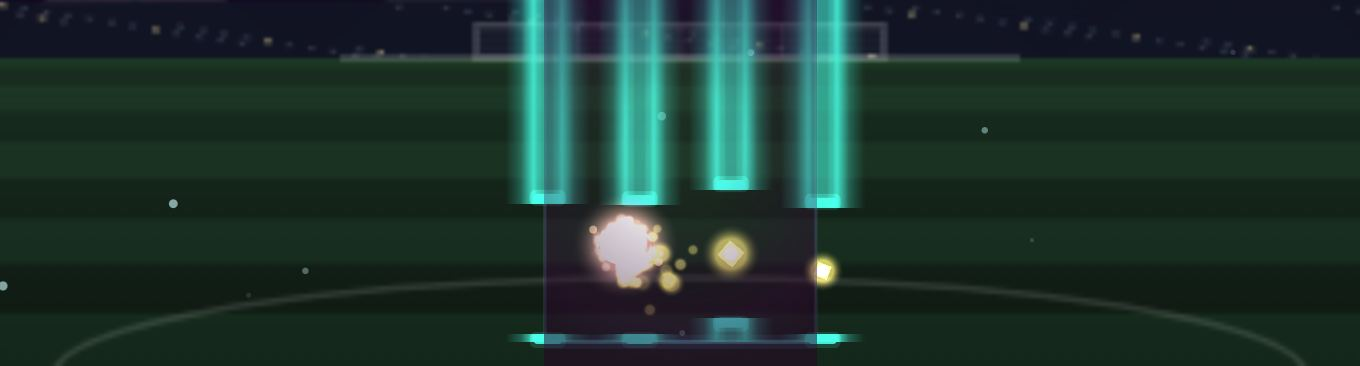
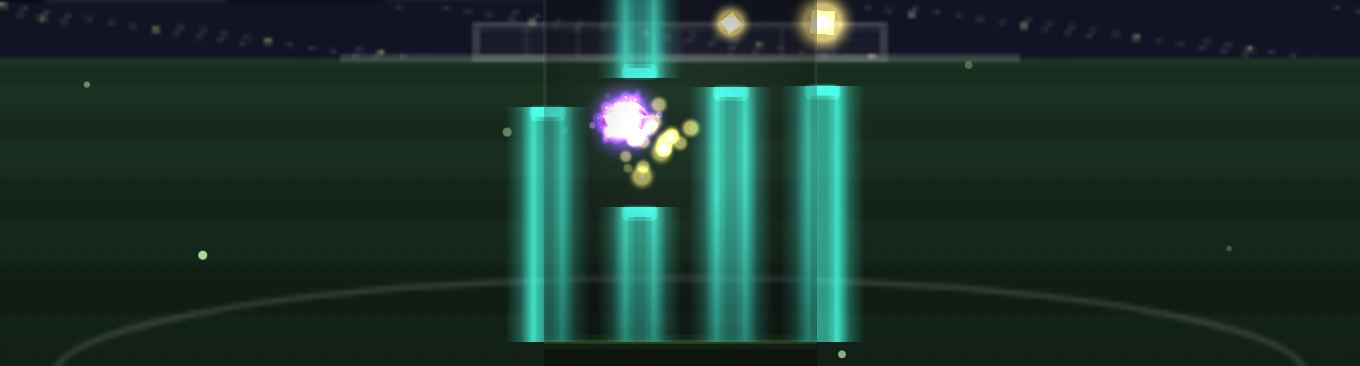
The striker skin is a ball, and it is legible at the size it is actually seen
STILL NOT PUSHED.

It was a red orb wearing a shirt number and a linesman's flag -- a character,
when what was asked for was a football. It is one now: a sphere with the panels
cut out of deep space, neon seams, stars burning inside it.

The first version drew all six pentagons properly, and at the size the game
actually uses -- a 19px orb -- it read as cracked glass. The icon lesson again:
a decoration is not a small picture. What makes a football legible at that size
is ONE pentagon in the middle and the seams running out of its corners, so that
is all it draws now, with the seam weight raised to r*0.115 and the star count
cut from fourteen to four. Verified by rendering the orb exactly as the game
draws it, at r=19, and magnifying with smoothing off -- not by admiring a
420px version of it.

Renamed to Void Ball in four languages, recoloured to indigo, and the world card
recaptured since it is shot with this skin equipped.

252 tests.

Changed region(s): [[0.3706, 0.0, 0.6485, 0.9617], [0.1235, 0.6913, 0.1544, 0.7213], [0.1235, 0.541, 0.1544, 0.571]]

diff --git a/js/game.js b/js/game.js
@@ -1440,27 +1440,78 @@
     // these is deliberately a single exaggerated trait on a plain orb. They are
     // archetypes, and archetypes belong to nobody.
 
-    // NUMBER 9: the eternally offside striker, with the linesman's flag that
-    // followed him home still stuck in his hair.
+    // A football, but the panels are cut out of deep space.
+    //
+    // The first version drew all six pentagons properly and at the size the game
+    // actually uses -- a 19px orb -- it read as cracked glass, not a ball. This
+    // is the icon lesson again: a decoration is not a small picture. What makes
+    // a football legible at that size is ONE pentagon in the middle and the
+    // seams running out of its corners, so that is all this draws.
     striker(ctx, r, hue, game) {
       const t = game ? game.elapsed : 0;
-      // the shirt number, big and dumb
-      ctx.fillStyle = 'rgba(255,255,255,0.92)';
-      ctx.font = 'bold ' + (r * 1.05).toFixed(1) + 'px system-ui, sans-serif';
-      ctx.textAlign = 'center'; ctx.textBaseline = 'middle';
-      ctx.fillText('9', 0, r * 0.06);
-      // the flag: a stick and a pennant that flutters
-      const fx = r * 0.62, fy = -r * 0.66;
-      ctx.strokeStyle = 'hsl(30 20% 88%)';
-      ctx.lineWidth = Math.max(1, r * 0.09);
-      ctx.beginPath(); ctx.moveTo(fx, fy); ctx.lineTo(fx + r * 0.10, fy - r * 0.85); ctx.stroke();
-      const wag = Math.sin(t * 6) * 0.14;
-      ctx.fillStyle = 'hsl(52 95% 58%)';
+      ctx.save();
+      ctx.beginPath(); ctx.arc(0, 0, r * 0.99, 0, TAU); ctx.clip();
+
+      // the sphere is a dark thing with light inside it, not a lit ball
+      const void_ = ctx.createRadialGradient(-r * 0.3, -r * 0.3, r * 0.1, 0, 0, r);
+      void_.addColorStop(0, 'hsl(266 55% 24%)');
+      void_.addColorStop(1, 'hsl(258 62% 9%)');
+      ctx.fillStyle = void_;
+      ctx.fillRect(-r, -r, r * 2, r * 2);
+
+      // a few big stars. Four, not fourteen: at 19px more than a handful is
+      // texture noise, and texture noise is what killed the first attempt.
+      for (let i = 0; i < 4; i++) {
+        const a = 0.7 + i * 1.9, d = r * (0.34 + (i % 3) * 0.22);
+        const tw = 0.5 + 0.5 * Math.sin(t * 2.0 + i * 2.1);
+        ctx.fillStyle = `hsla(${i % 2 ? 190 : 305} 95% 90% / ${0.45 + tw * 0.5})`;
+        ctx.beginPath();
+        ctx.arc(Math.cos(a) * d, Math.sin(a) * d, r * (i === 0 ? 0.10 : 0.065), 0, TAU);
+        ctx.fill();
+      }
+
+      // THE PENTAGON, and the seams leaving its corners. This is the whole read.
+      const R5 = r * 0.42, seam = Math.max(1.6, r * 0.115);
+      const pts = [];
+      for (let i = 0; i < 5; i++) {
+        const a = i * TAU / 5 - Math.PI / 2;
+        pts.push([Math.cos(a) * R5, Math.sin(a) * R5]);
+      }
       ctx.beginPath();
-      ctx.moveTo(fx + r * 0.10, fy - r * 0.85);
-      ctx.lineTo(fx + r * 0.86, fy - r * 0.70 + wag * r);
-      ctx.lineTo(fx + r * 0.12, fy - r * 0.44);
-      ctx.closePath(); ctx.fill();
+      ctx.moveTo(pts[0][0], pts[0][1]);
+      for (let i = 1; i < 5; i++) ctx.lineTo(pts[i][0], pts[i][1]);
+      ctx.closePath();
+      ctx.fillStyle = 'hsla(258 62% 7% / 0.92)';
+      ctx.fill();
+      ctx.lineJoin = 'round'; ctx.lineCap = 'round';
+      ctx.strokeStyle = 'hsl(188 95% 72%)';
+      ctx.lineWidth = seam;
+      ctx.stroke();
+      // seams out to the limb, straight, from each corner
+      ctx.beginPath();
+      for (const [px, py] of pts) {
+        const m = r * 1.02 / Math.hypot(px, py);
+        ctx.moveTo(px, py);
+        ctx.lineTo(px * m, py * m);
+      }
+      ctx.stroke();
+
+      // one band of nebula so it is a sphere with weather, not a badge
+      const neb = ctx.createLinearGradient(-r, -r * 0.5, r, r * 0.5);
+      neb.addColorStop(0, 'hsla(305 85% 62% / 0)');
+      neb.addColorStop(0.5, `hsla(305 85% 62% / ${0.16 + 0.06 * Math.sin(t * 0.7)})`);
+      neb.addColorStop(1, 'hsla(188 90% 60% / 0)');
+      ctx.fillStyle = neb;
+      ctx.fillRect(-r, -r, r * 2, r * 2);
+
+      // and the dark limb, so it turns away from you at the edge
+      const sh = ctx.createRadialGradient(-r * 0.35, -r * 0.35, r * 0.15, 0, 0, r);
+      sh.addColorStop(0, 'hsla(0 0% 100% / 0.10)');
+      sh.addColorStop(0.62, 'hsla(0 0% 0% / 0)');
+      sh.addColorStop(1, 'hsla(258 75% 3% / 0.55)');
+      ctx.fillStyle = sh;
+      ctx.fillRect(-r, -r, r * 2, r * 2);
+      ctx.restore();
     },
 
     // KEEPER: gloves too big to hold anything.

diff --git a/js/i18n.js b/js/i18n.js
@@ -211,8 +211,8 @@
       varDecisionGoal: "DECISION: GOAL",
       cos_pitch: "Floodlights",
       cosd_pitch: "Floodlights, a stand full of phone screens, and stripes mown into the grass. Unhurried - the world takes its time.",
-      cos_striker: "Number 9",
-      cosd_striker: "Eternally offside. The flag never quite came out of his hair.",
+      cos_striker: "Void Ball",
+      cosd_striker: "A football with the panels cut out of deep space. Stars burn inside the plates.",
       cos_keeper: "The Keeper",
       cosd_keeper: "Gloves far too big to hold anything at all.",
       cos_gaffer: "The Gaffer",
@@ -224,7 +224,7 @@
       cos_matchday: "Matchday",
       cosd_matchday: "The whole night: the striker, the divots, the floodlights and the celebration.",
       cosf_pitch: "Kick-off is in four minutes and nobody is warmed up.",
-      cosf_striker: "He was level. He is never level.",
+      cosf_striker: "Somebody kicked it too hard.",
       cosf_keeper: "Got a hand to it. Only a hand.",
       cosf_gaffer: "The lads know what they did.",
       cosf_turf: "The groundsman has seen enough.",
@@ -796,13 +796,13 @@
       varDecisionGoal: "KARAR: GOL",
       cos_pitch: "Işıklar Altında",
       cosd_pitch: "Projektörler, telefon ekranlarıyla dolu bir tribün ve çime biçilmiş şeritler. Aceleci değil - dünya ağırdan alır.",
-      cos_striker: "Numara 9",
-      cosd_striker: "Ebediyen ofsayt. Bayrak saçından bir türlü çıkmadı.",
+      cos_striker: "Boşluk Topu",
+      cosd_striker: "Panelleri derin uzaydan kesilmiş bir futbol topu. Levhaların içinde yıldızlar yanıyor.",
       cos_keeper: "Kaleci",
       cosd_keeper: "Hiçbir şey tutamayacak kadar büyük eldivenler.",
       cos_gaffer: "Hocam",
       cosf_pitch: "Maça dört dakika var, kimse ısınmadı.",
-      cosf_striker: "Ofsayt değildi. Hiç değil zaten.",
+      cosf_striker: "Biri fazla sert vurdu.",
       cosf_keeper: "Eliyle değdi. Sadece değdi.",
       cosf_gaffer: "Çocuklar ne yaptığını biliyor.",
       cosf_turf: "Saha görevlisi yeterince gördü.",
@@ -1394,7 +1394,7 @@
       varSub: "Decisión pendiente. Compra la revisión.",
       varDecisionGoal: "DECISIÓN: GOL",
       cosf_pitch: "Faltan cuatro minutos y nadie ha calentado.",
-      cosf_striker: "Estaba en línea. Nunca lo está.",
+      cosf_striker: "Alguien le pegó demasiado fuerte.",
       cosf_keeper: "La tocó. Solo la tocó.",
       cosf_gaffer: "Los chicos saben lo que hicieron.",
       cosf_turf: "El jardinero ya ha visto bastante.",
@@ -1402,8 +1402,8 @@
       cosf_matchday: "Que alguien traiga las naranjas.",
       cos_pitch: "Bajo los Focos",
       cosd_pitch: "Focos, una grada llena de pantallas y franjas segadas en el césped. Sin prisa: el mundo se toma su tiempo.",
-      cos_striker: "Número 9",
-      cosd_striker: "Eternamente en fuera de juego. La bandera nunca salió de su pelo.",
+      cos_striker: "Balón del Vacío",
+      cosd_striker: "Un balón con los paneles recortados del espacio profundo. Dentro de las placas arden estrellas.",
       cos_keeper: "El Portero",
       cosd_keeper: "Guantes demasiado grandes para sujetar nada.",
       cos_gaffer: "El Míster",
@@ -2093,7 +2093,7 @@
       coins: "金币",
       freeShards: "免费碎片",
       cosf_pitch: "还有四分钟开球，没人热身。",
-      cosf_striker: "他没越位。他从来没有。",
+      cosf_striker: "有人踢得太用力了。",
       cosf_keeper: "碰到了。仅仅是碰到。",
       cosf_gaffer: "小伙子们知道自己干了什么。",
       cosf_turf: "草坪师已经看够了。",
@@ -2108,8 +2108,8 @@
       varDecisionGoal: "判罚：进球有效",
       cos_pitch: "灯火之下",
       cosd_pitch: "泛光灯、满是手机屏幕的看台，以及修剪出条纹的草皮。不慌不忙——世界自有节奏。",
-      cos_striker: "9号",
-      cosd_striker: "永远越位。那面旗子再也没从他头发里拿出来。",
+      cos_striker: "虚空之球",
+      cosd_striker: "面板从深空裁下来的足球。板块里燃着星星。",
       cos_keeper: "门将",
       cosd_keeper: "手套大到什么都抓不住。",
       cos_gaffer: "教头",

diff --git a/js/cosmetics.js b/js/cosmetics.js
@@ -95,7 +95,7 @@
     // is also the legal one: identification comes from STACKING signals, so a
     // single exaggerated idea per orb keeps every one of these an archetype
     // rather than a portrait of somebody real.
-    { id: 'striker',  tier: 'premium', hue: 8,   sat: 78, light: 58, deco: 'striker' },
+    { id: 'striker',  tier: 'premium', hue: 262, sat: 62, light: 46, deco: 'striker' },
     { id: 'keeper',   tier: 'mid',     hue: 44,  sat: 88, light: 60, deco: 'keeper' },
     { id: 'gaffer',   tier: 'mid',     hue: 214, sat: 30, light: 52, deco: 'gaffer' },
   ];
